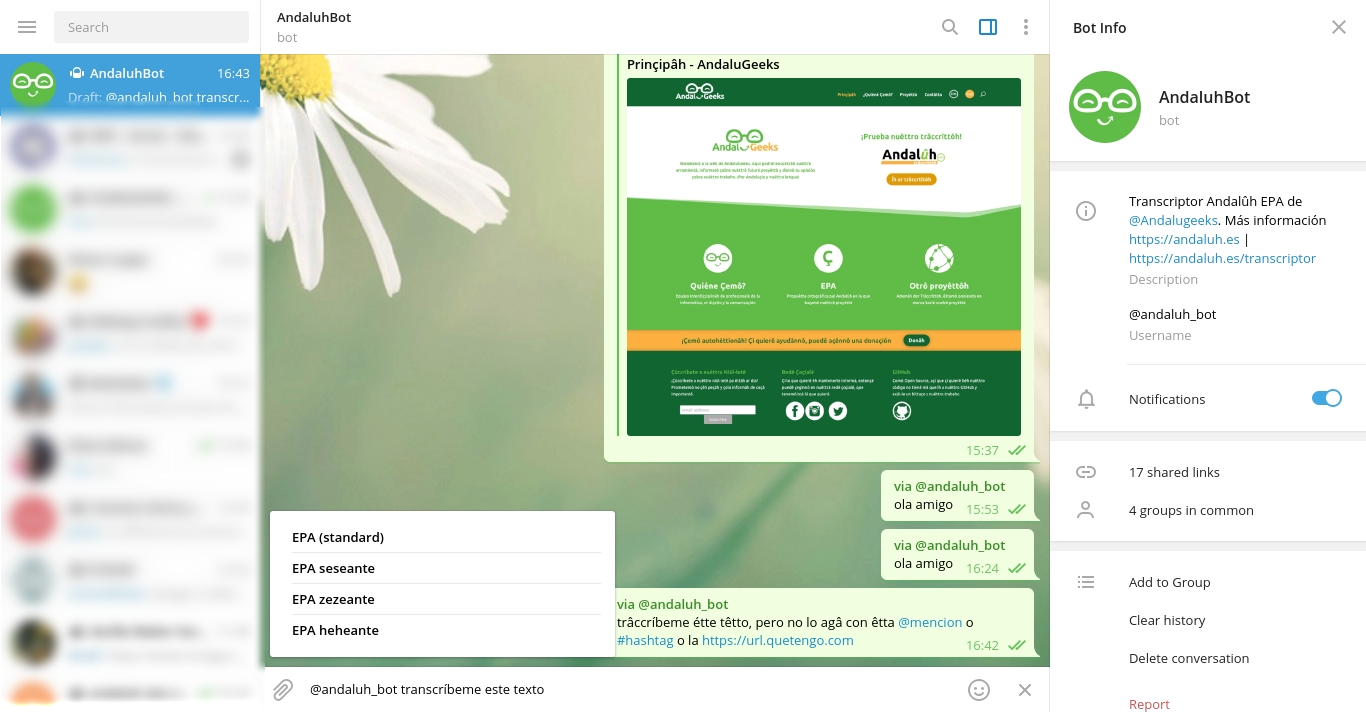
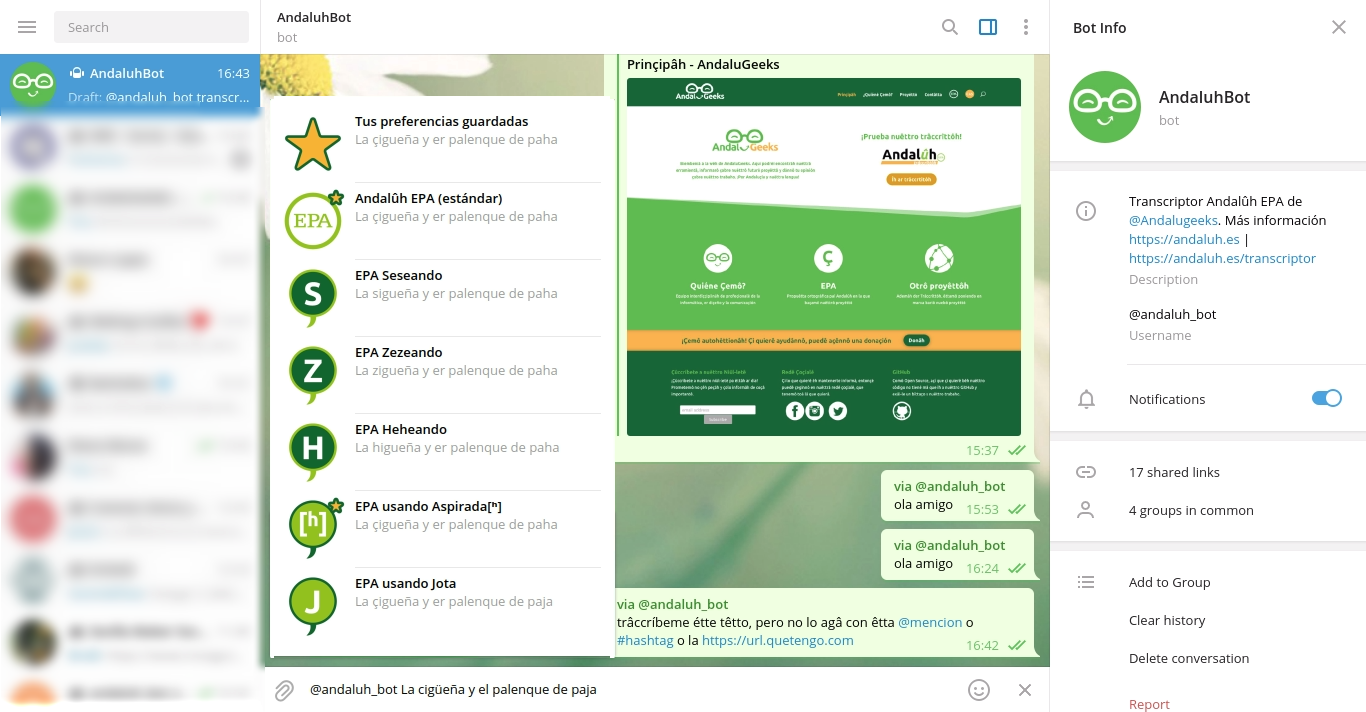
Updated titles and snapshot accordingly

diff --git a/app/andaluhbot.py b/app/andaluhbot.py
@@ -87,7 +87,7 @@ def inlinequery(update, context):
     results = [
         InlineQueryResultArticle(
             id='default',
-            title="EPA (tus preferencias guardadas)",
+            title="Tus preferencias guardadas",
             thumb_url=IMG_BASEURL + images['default'],
             thumb_width=450,
             thumb_height=450,
@@ -97,7 +97,7 @@ def inlinequery(update, context):
                 parse_mode=ParseMode.MARKDOWN)),
         InlineQueryResultArticle(
             id='standard',
-            title="Ç: EPA (standard)",
+            title="Andalûh EPA (estándar)",
             thumb_url=IMG_BASEURL + images['standard'],
             thumb_width=450,
             thumb_height=450,
@@ -107,7 +107,7 @@ def inlinequery(update, context):
                 parse_mode=ParseMode.MARKDOWN)),
         InlineQueryResultArticle(
             id='vaf:s',
-            title="S: EPA seseante",
+            title="EPA Seseando",
             thumb_url=IMG_BASEURL + images['vaf:s'],
             thumb_width=450,
             thumb_height=450,
@@ -117,7 +117,7 @@ def inlinequery(update, context):
                 parse_mode=ParseMode.MARKDOWN)),
         InlineQueryResultArticle(
             id='vaf:z',
-            title="Z: EPA zezeante",
+            title="EPA Zezeando",
             thumb_url=IMG_BASEURL + images['vaf:z'],
             thumb_width=450,
             thumb_height=450,
@@ -127,7 +127,7 @@ def inlinequery(update, context):
                 parse_mode=ParseMode.MARKDOWN)),
         InlineQueryResultArticle(
             id='vaf:h',
-            title="H: EPA heheante",
+            title="EPA Heheando",
             thumb_url=IMG_BASEURL + images['vaf:h'],
             thumb_width=450,
             thumb_height=450,
@@ -137,7 +137,7 @@ def inlinequery(update, context):
                 parse_mode=ParseMode.MARKDOWN)),
         InlineQueryResultArticle(
             id='vvf:h',
-            title="A: EPA usando Aspirada[ʰ]",
+            title="EPA usando Aspirada[ʰ]",
             thumb_url=IMG_BASEURL + images['vvf:h'],
             thumb_width=450,
             thumb_height=450,
@@ -147,7 +147,7 @@ def inlinequery(update, context):
                 parse_mode=ParseMode.MARKDOWN)),
         InlineQueryResultArticle(
             id='vvf:j',
-            title="J: EPA usando Jota",
+            title="EPA usando Jota",
             thumb_url=IMG_BASEURL + images['vvf:j'],
             thumb_width=450,
             thumb_height=450,
